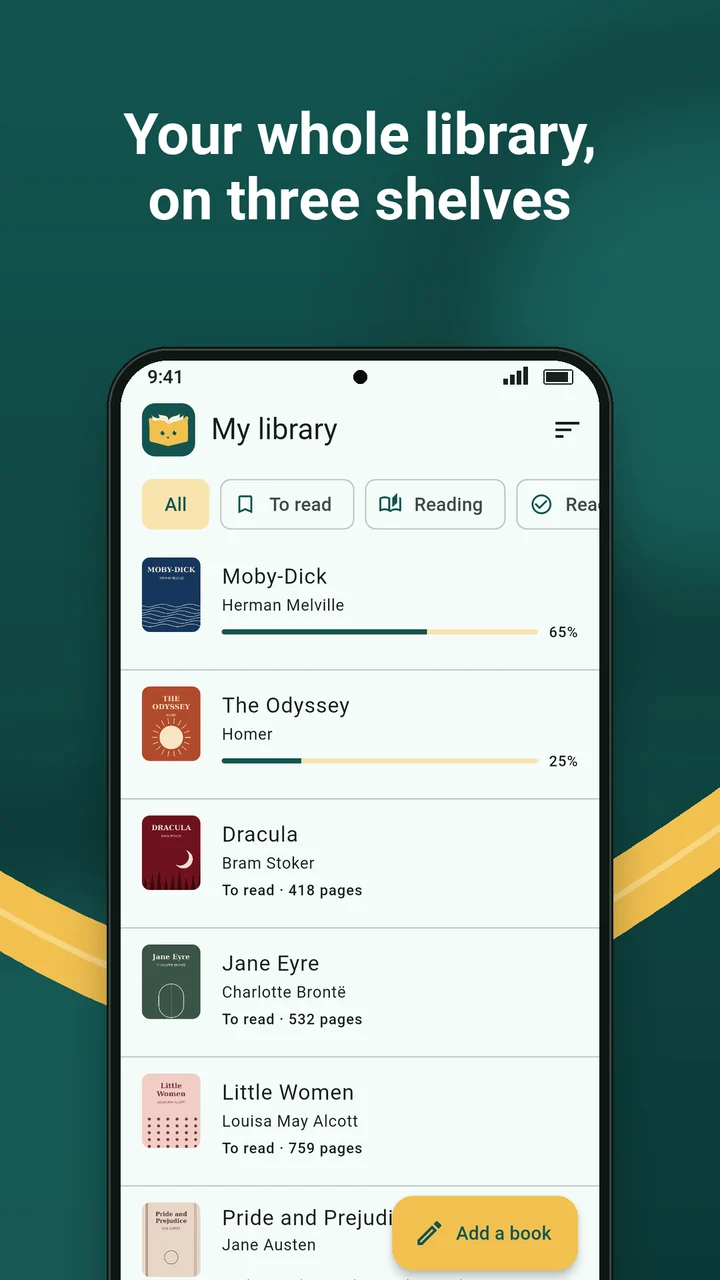
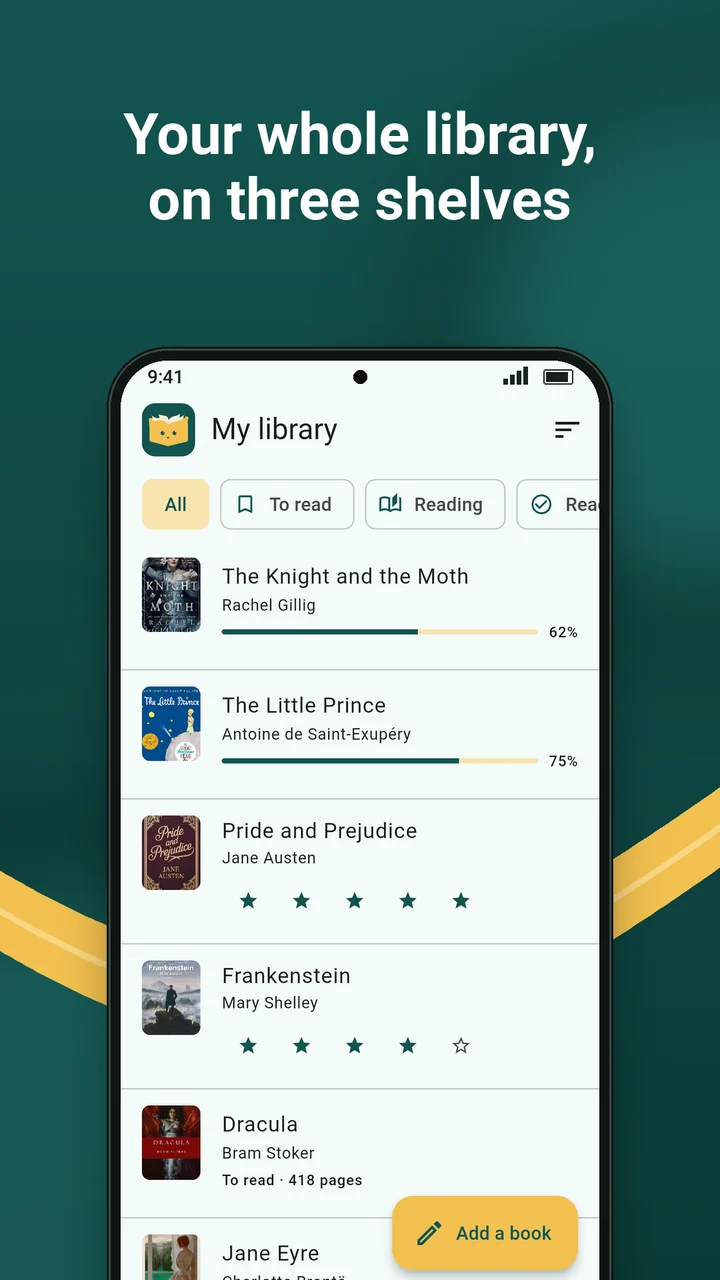
Use real book covers in the MyBookmark screenshots
The demo library now features The Knight and the Moth and The Little
Prince, with the covers the app itself finds on Apple Books. Moby-Dick
is gone.

Claude-Session: https://claude.ai/code/session_01HdbEsb3piiYWzDs4SoGV2y

diff --git a/mybookmark/index.html b/mybookmark/index.html
@@ -47,13 +47,13 @@
     <section class="gallery" aria-label="Screenshots">
       <div class="gallery-track" tabindex="0">
         <img src="/assets/img/mybookmark-screens/panel-1.webp" width="720" height="1280"
-             alt="Your whole library, on three shelves: the library screen, with books to read, in progress and read.">
+             alt="Your whole library, on three shelves: the library screen, with The Knight and the Moth and The Little Prince in progress, and classics read or to read.">
         <img src="/assets/img/mybookmark-screens/panel-2.webp" width="720" height="1280"
-             alt="Track every page you read: a book's page, with its progress bar and the current page.">
+             alt="Track every page you read: the page of The Knight and the Moth, at page 248 of 400.">
         <img src="/assets/img/mybookmark-screens/panel-3.webp" width="720" height="1280" loading="lazy"
              alt="Find any book in seconds: search results for Jane Austen, with covers.">
         <img src="/assets/img/mybookmark-screens/panel-4.webp" width="720" height="1280" loading="lazy"
-             alt="Share your progress in style: a progress card in the colours of the cover, ready for an Instagram story.">
+             alt="Share your progress in style: a progress card for The Knight and the Moth, in the colours of its cover, ready for an Instagram story.">
       </div>
     </section>
 
